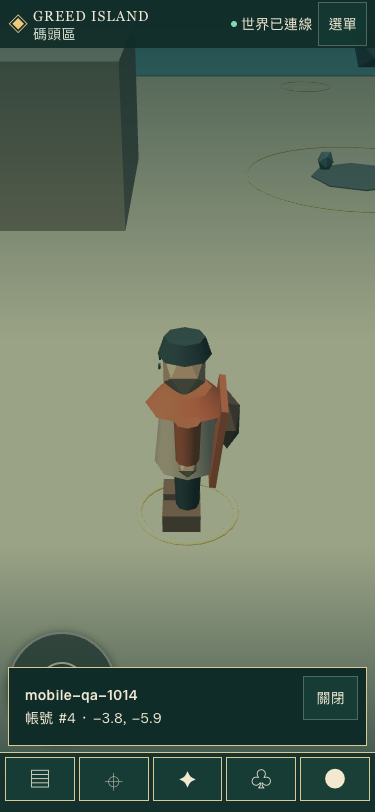
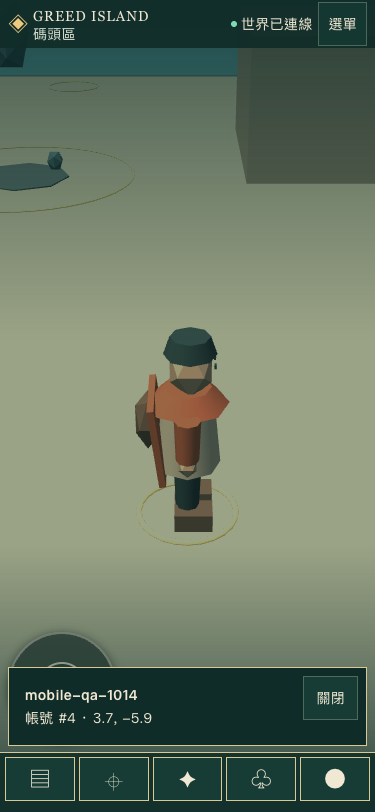
fix(web): preserve desktop world chat accessibility

diff --git a/packages/web/src/multiplayer3d/Multiplayer3DPage.tsx b/packages/web/src/multiplayer3d/Multiplayer3DPage.tsx
@@ -150,7 +150,7 @@ export default function Multiplayer3DPage() {
     <div className="mp-vignette" />
     <header className="mp-header"><div className="mp-brand"><span>◈</span><div><strong>GREED ISLAND</strong><small>{region?.name ?? '共同世界'}</small></div></div><nav className="mp-game-links"><Link to="/game/hub">世界總覽</Link><Link to="/game/profile">個人資料</Link><Link to="/game/codex">卡冊</Link><Link to="/game/social">社交與交易</Link></nav><span className={`mp-connection ${online ? 'online' : ''}`} role="status"><i />{STATUS_TEXT[status]}</span><button className="mp-menu-toggle" aria-expanded={menuOpen} onClick={() => { setMobileDrawer(null); setMenuOpen(open => !open) }}>選單</button>{profile?.role === 'admin' && <button className="mp-admin-recovery" onClick={() => { controls.current.cancelNavigation?.(); releaseStick(); setMenuOpen(false); setRecoveryOpen(true) }}>帳號復原</button>}{profile && <button className="mp-logout" disabled={logoutBusy} onClick={() => { void logout() }}>{logoutBusy ? '登出中' : '登出'}</button>}</header>
     {menuOpen && <><div className="mp-menu-scrim" aria-hidden="true" onClick={() => setMenuOpen(false)} /><nav className="mp-menu-drawer" aria-label="遊戲選單"><button className="mp-drawer-close" onClick={() => setMenuOpen(false)}>關閉</button><Link to="/game/hub">世界總覽</Link><Link to="/game/profile">個人資料</Link><Link to="/game/codex">卡冊</Link><Link to="/game/social">社交與交易</Link><Link to="/reset-password">帳號復原</Link>{profile?.role === 'admin' && <button onClick={() => { setMenuOpen(false); setRecoveryOpen(true) }}>管理員帳號復原</button>}{profile && <button disabled={logoutBusy} onClick={() => { setMenuOpen(false); void logout() }}>登出</button>}</nav></>}
-    <section className="mp-mobile-drawer" data-open={!!mobileDrawer} data-pane={mobileDrawer ?? ''} aria-label="世界資訊抽屜" aria-hidden={!mobileDrawer}>
+    <section className="mp-mobile-drawer" data-open={!!mobileDrawer} data-pane={mobileDrawer ?? ''} aria-label="世界資訊抽屜" aria-hidden={window.innerWidth < 768 ? !mobileDrawer : undefined}>
       <button className="mp-drawer-close" onClick={() => setMobileDrawer(null)}>關閉</button>
       {snapshot && <section data-mobile-pane="mission" data-active={mobileDrawer === 'mission'} className="mp-mission" aria-label="目前共同世界區域"><span className="mp-eyebrow">同一帳號 · 共同世界</span><h1>{region?.name ?? snapshot.tileId}</h1><p>玩家位置與在場 NPC 來自同一份伺服器世界。前往通路後，即可申請跨區。</p><div className="mp-mission-progress"><span>世界 tick <b>{snapshot.worldTick}</b></span><span>{onlinePlayers.length} 位旅人 · {snapshot.npcs.length} 位 NPC 在場</span></div></section>}
       <div data-mobile-pane="map" data-active={mobileDrawer === 'map'}><SharedMap snapshot={snapshot} selected={selectedRegion} select={setSelectedRegion} /></div>

diff --git a/e2e/mobile-layout.spec.ts b/e2e/mobile-layout.spec.ts
@@ -32,6 +32,8 @@ test('game layout stays within viewport and the region choice fits at phone, tab
   const page = await context.newPage()
   try {
     await register(page)
+    await expect(page.getByRole('textbox', { name: '世界聊天訊息' })).toBeVisible()
+    await expect(page.getByRole('button', { name: '傳送', exact: true })).toBeVisible()
     for (const size of sizes) {
       await test.step(`${size.name} viewport`, async () => {
         await page.setViewportSize({ width: size.width, height: size.height })

diff --git a/PROGRESS.md b/PROGRESS.md
@@ -1,11 +1,11 @@
 ## 2026-10-14 — PR #11 mobile scene-first layout rework
 
 - Mobile `<768px` now keeps the 3D scene exposed behind a 48px header and five icon touch targets; scene details, map, beacon, travellers/NPC chat and account information share one dismissible bottom drawer. Menu navigation contains world overview, profile, codex, social/trading, account recovery and logout. Desktop panel/navigation presentation remains in place.
-- `e2e/mobile-layout.spec.ts`: all 7 tests pass locally against `localhost:4178/game` using `mobile-qa-1014`; build and web tests pass. CI is pending the pushed commit.
+- `e2e/mobile-layout.spec.ts`: all 7 tests pass locally against `localhost:4178/game` using `mobile-qa-1014`; build and web tests pass. The first CI run `38488752223` exposed that `aria-hidden` on the desktop `display:contents` wrapper hid world chat from role queries; desktop wrapper is now exposed and the desktop test asserts the chat input/send button are visible. Follow-up CI is pending.
 - Measured canvas visibility (closed / lowest open drawer): 375×812 **86.3% / 50%**; 393×852 **86.3% / 50%**; 430×932 **87.5% / 45%**. Menu open **65%**. Header **48px**. Horizontal scroll: none at all tested sizes. Desktop 1280×800 selector width **218px**, label **100.5/176px**.
 - `beacon action is hit-testable at its center on mobile`: center `elementFromPoint` is the action button; screenshot `packages/web/evidence/mobile-layout/a-beacon-button-center.png`.
 - `NPC chat input is clickable, editable, readable and unobscured`: center hit succeeds, fill/readback succeeds, font **16px**; screenshot `packages/web/evidence/mobile-layout/b-npc-chat-input.png`.
-- `two-second full joystick deflection moves the server-persisted account position by at least one unit`: final run **3.5,-5.9 → -3.8,-5.9**, delta **7.30**; no server changes; screenshot `packages/web/evidence/mobile-layout/c-joystick-two-seconds.png`.
+- `two-second full joystick deflection moves the server-persisted account position by at least one unit`: final run **-3.8,-5.9 → 3.7,-5.9**, delta **7.50**; no server changes; screenshot `packages/web/evidence/mobile-layout/c-joystick-two-seconds.png`.
 - `mobile readable text and visible button centers meet touch requirements`: readable text ≥14px, visible buttons ≥44×44px with hit-test center, version hidden; screenshot `packages/web/evidence/mobile-layout/d-readable-controls.png`. Menu screenshot: `packages/web/evidence/mobile-layout/e-mobile-menu.png`.
 
 ## 2026-10-14 — Current main merged into legacy import branch
